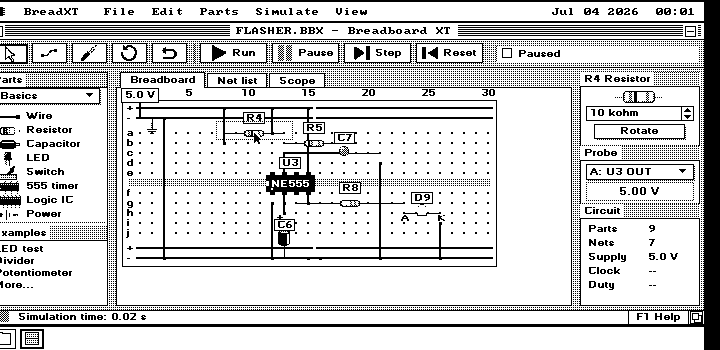
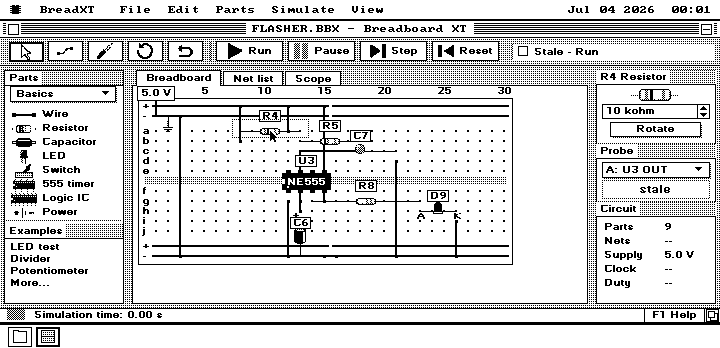
Breadboard XT: scope header follows Run, Logic example spread out, true Hercules shot
The docked scope's header (STALE / RUN / HOLD and the trigger) was painted
only on a user event: the simulation's own repaints cover the plot under
it, so a Run that made the results valid left STALE there for as long as
the circuit ran. ovl_bu_update now keeps the header's state and repaints
the whole section when it changes. tests/breadxt.py's flasher scenario
checks the header's pixels change while the circuit is still running;
against main's build the same check sees STALE kept.

LOGIC.BBX put both inputs and the indicator in g12-g14, under the chip.
A single-pin part draws upward and its tag is wider than a column, so the
three tags piled onto the chip and onto each other (IN IN L6). They now
stand in g5, g9 and g22, wired to pins 1, 2 and 3; the logical graph the
exporter checks is unchanged (6 parts, 5 wires, 14 nets, 224 bytes).

docs/breadxt/face/after-herc.png was MartyPC's RENDERED frame, 720x350,
where the guest's picture lands 16 px to the left (HERCULES-TESTING.md),
so the whole desktop looked shifted off the screen. It is retaken from
Hercules VRAM (720x348). before-herc.png has the same offset and stays:
the face it shows is gone.

Overlay 64,061 -> 64,132 bytes; resident image unchanged, BSS +2
(195 bytes spare).

diff --git a/tests/breadxt.py b/tests/breadxt.py
@@ -283,10 +283,37 @@ def editor(ui,symbols,folder,kind):
     return flushed,before
 
 
+S_SCOPE = 18     # apps/breadxt/face.c's section index of the docked scope
+
+
+def scope_header(app,still=True):
+    """The docked scope's header line (STALE / RUN / HOLD) as drawn."""
+    x1,y1=(app.word(n,2*S_SCOPE) for n in ('bu_r1','bu_r2'))
+    th=app.word('bu_th')
+    if still:app.ui.still()     # a running scope never goes still
+    w,h,rgb=app.ui.m.fbuf()
+    return b''.join(rgb[(y*w+x1+2)*3:(y*w+x1+90)*3] for y in range(y1+1,y1+th+3))
+
+
+def header_follows_run(app):
+    """A Run that makes the results valid repaints the scope's header while
+    the simulation is still running, not at the next click: the simulation's
+    own scope repaints covered only the plot, so the header read STALE for
+    as long as the circuit ran."""
+    app.reset();stale=scope_header(app)
+    app.ui.menu_pick('Simulate','Run')
+    app.wait(lambda q:q['valid'] and q['running'] and q['count']>0 and not q['op'],'running with valid results',600)
+    M.guest_sleep(app.ui.m,0.5)
+    assert scope_header(app,still=False)!=stale,'scope header still reads STALE while the circuit runs'
+    app.ui.menu_pick('Simulate','Pause');app.wait(lambda q:not q['op'] and not q['running'],'Pause commit',60)
+    print('  scope header repainted while running',flush=True)
+
+
 def flasher(app,kind):
     app.open('FLASHER.BBX',9)
     for _ in range(2):app.ui.menu_pick('Simulate','Larger timestep')
     app.wait(lambda q:q['dt']==40 and not q['op'],'4ms timestep',60)
+    if kind=='vga':header_follows_run(app)
     app.reset();slow=app.run_to(lambda q:q['cycles']>=3,'three settled flasher cycles')
     check_flasher(app,slow,68000,0.02)
     shot(app.ui,kind,'flasher-68k-paused')

diff --git a/apps/breadxt/face.c b/apps/breadxt/face.c
@@ -79,6 +79,9 @@ static BBWord bu_hash;
 static int bu_sx1,bu_sy1,bu_sx2,bu_sy2;
 static int bu_r1[S_N],bu_r2[S_N],bu_r3[S_N],bu_r4[S_N];
 static BBWord bu_key[S_N];
+/* The scope's header line - STALE, RUN or HOLD and the trigger - as last
+ * painted; the simulation's own repaints cover only the plot under it. */
+static BBWord bu_shead;
 #ifdef BB_HOST
 static int bu_host_sec=-1;   /* the host harness checks each section stays in its rect */
 #endif
@@ -1217,7 +1220,12 @@ static int ovl_bu_update(unsigned flags)
         ovl_bu_paint(bu_bx,bu_dirty_top,bu_bx+bu_bw-1,bu_dirty_bottom);
     if((flags&BU_SCOPE_DIRTY)){
         /* the simulation moves only the plot and the line under it; a user
-         * event or a command repaints the legend and run state too */
+         * event or a command repaints the legend and run state too, and so
+         * does the simulation when it changes the run state the header
+         * reads: a Run that makes the results valid would otherwise leave
+         * STALE there until the next click */
+        k=(bb_valid?4:0)|(bb_running?8:0)|bb_doc.trigger;
+        if(k!=bu_shead){bu_shead=k;flags|=BU_UIKEY;}
         if(bu_r1[S_SCOPE]<=bu_r3[S_SCOPE]){
             if(flags&BU_UIKEY)ovl_bu_paint_s(S_SCOPE);
             else ovl_bu_paint(bu_r1[S_SCOPE]+(bu_compact?26:32),bu_r2[S_SCOPE]+bu_th+3,bu_r3[S_SCOPE]-6,bu_r4[S_SCOPE]-1);

diff --git a/apps/breadxt/examples.c b/apps/breadxt/examples.c
@@ -72,11 +72,18 @@ static int ovl_bb_example(unsigned which)
         bb_expart(BB_POWER,bb_exhole(0,0),bb_exhole(1,0),BB_NONE,5000,0,0);
         bb_expart(BB_GROUND,bb_exhole(1,1),BB_NONE,BB_NONE,0,0,0);
         u=bb_expart(BB_HC00,bb_exhole(7,11),BB_NONE,BB_NONE,0,0,0);
-        bb_expart(BB_INPUT,bb_exhole(8,11),BB_NONE,BB_NONE,0,BB_HIGH,0);
-        bb_expart(BB_INPUT,bb_exhole(8,12),BB_NONE,BB_NONE,0,BB_HIGH,0);
-        bb_expart(BB_INDICATOR,bb_exhole(8,13),BB_NONE,BB_NONE,0,0,0);
+        /* The inputs and the indicator stand clear of the chip and of each
+         * other, wired to pins 1, 2 and 3: a single-pin part draws upward
+         * and its tag is wider than a column, so three of them in g12-g14
+         * piled onto the chip and onto each other's tags. */
+        bb_expart(BB_INPUT,bb_exhole(8,4),BB_NONE,BB_NONE,0,BB_HIGH,0);
+        bb_expart(BB_INPUT,bb_exhole(8,8),BB_NONE,BB_NONE,0,BB_HIGH,0);
+        bb_expart(BB_INDICATOR,bb_exhole(8,21),BB_NONE,BB_NONE,0,0,0);
         bb_exwire(bb_exhole(2,11),bb_exhole(0,11),4);
         bb_exwire(bb_exhole(8,17),bb_exhole(1,10),1);
+        bb_exwire(bb_exhole(11,11),bb_exhole(11,4),2);
+        bb_exwire(bb_exhole(10,12),bb_exhole(10,8),2);
+        bb_exwire(bb_exhole(11,13),bb_exhole(11,21),5);
         bb_exprobe(0,u,3);bb_exprobe(1,u,1);
     } else if(which==6) {
         bb_exsupply(3,23);

diff --git a/docs/breadxt/DEVELOPER.md b/docs/breadxt/DEVELOPER.md
@@ -152,9 +152,9 @@ The physical board also bounds DIP count; workspace holds 32 gates. Time is a
 pair of unsigned words in 100 us units, independent of host and OS elapsed time.
 
 The final link has 261 C functions, maximum individual frame 48 bytes,
-**33,024 bytes resident image + 31,803 BSS = 64,827 of 65,024 bytes**
-(197 bytes spare). The eager embedded overlay is 64,061 bytes of its 65,024
-ceiling, compressed to 30,510; the workbench face's art (`BBART.BIN`, SPEC.md
+**33,024 bytes resident image + 31,805 BSS = 64,829 of 65,024 bytes**
+(195 bytes spare). The eager embedded overlay is 64,132 bytes of its 65,024
+ceiling, compressed to 30,553; the workbench face's art (`BBART.BIN`, SPEC.md
 130.6.3) is 14,923 bytes, compressed to 7,280, and loaded only when it fits.
 The complete .O88 is 61,616 bytes. No kernel budget was increased.
 
@@ -207,7 +207,7 @@ elsewhere. The 640 KB machines return exactly to their launch figures. The
 All entries are bytes. Loaded minus before is the whole working set, owned
 claims and the desktop's caches together: 193,024 on VGA, 168,448 on CGA,
 170,496 on Hercules and 120,320 on 256 KB (#372: 146,432, 121,856, 123,904
-and 121,856). The face's growth is the overlay (now 64,061 bytes), the art
+and 121,856). The face's growth is the overlay (64,061 bytes then; 64,132 since the scope header fix), the art
 part (14,923) and the 16 KB band; on 256 KB the kernel sheds its caches to
 make that room. This is a tight, otherwise idle desktop:
 close other applications there. Full capacities and scope remain enabled; the

diff --git a/docs/breadxt/FORMAT.md b/docs/breadxt/FORMAT.md
@@ -107,7 +107,7 @@ are independent calculations; they are not used to animate or drive a circuit.
 | DIVIDER.BBX |4 / 0 / 3; 112 |5 V -> 10k -> midpoint -> 10k -> GND. 2.500 V, 250 uA series current. |
 | POT.BBX |3 / 0 / 3; 96 |10k track across 5 V/GND, independent midpoint wiper at 500 permille. 2.500 V; endpoints are ideal zero-length segments. |
 | SWITCH.BBX |5 / 0 / 3 closed; 128 |5 V -> 330 ohms -> closed switch -> LED -> GND. Open stops current. |
-| LOGIC.BBX |6 / 2 / 14; 176 |HC00N actual pin 14=5 V, pin 7=GND, pins 1/2=HIGH, pin 3=indicator. First NAND output LOW; other unused inputs Z/X. |
+| LOGIC.BBX |6 / 5 / 14; 224 |HC00N actual pin 14=5 V, pin 7=GND, pins 1/2=HIGH, pin 3=indicator. First NAND output LOW; other unused inputs Z/X. The inputs (g5, g9) and the indicator (g22) are wired to pins 1, 2 and 3 rather than standing in g12-g14, where they drew over the chip and each other. |
 | BROKEN.BBX |3 / 0 / 2; 96 |LED directly across 5 V/GND. Expected missing-series-resistor diagnostic; source still saves/reopens. |
 | RC.BBX |4 / 0 / 3; 112 |5 V -> 10k -> C positive; 10uF C negative to GND, initial 0 V. Tau 0.1 s, continuous 3.160603 V at 0.1 s; 1 ms BE about 3.151444 V. |
 | FLASHER.BBX |9 / 10 / 7; 352 |Verified eight-pin astable below. |
